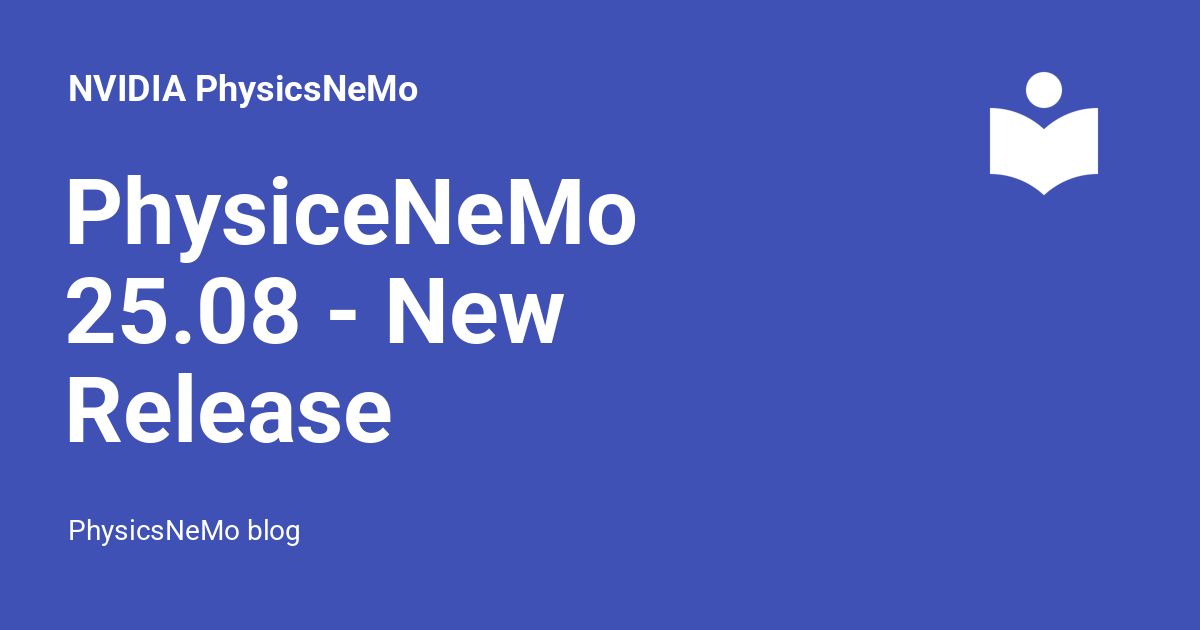
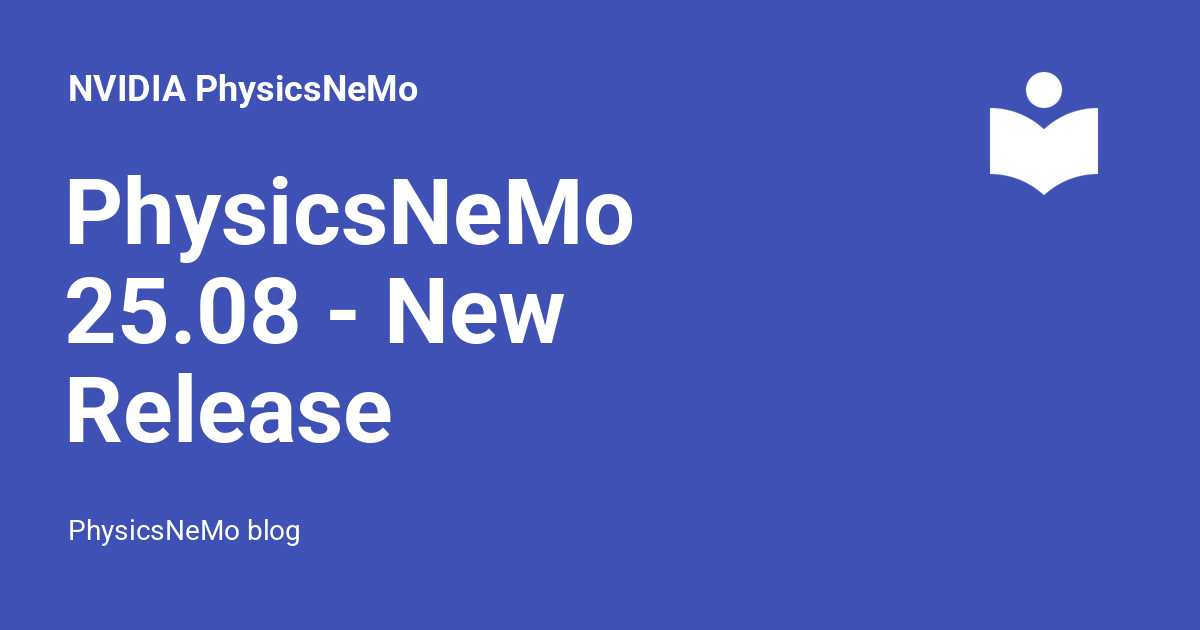
[CI] API Docs Build 1e65c19b

Changed region(s): [[0.2775, 0.3016, 0.5242, 0.3921]]

diff --git a/blog/2025/08/27/physicsnemo-release-25-08/index.html b/blog/2025/08/27/physicsnemo-release-25-08/index.html
@@ -20,7 +20,7 @@
     
     
       
-        <title>PhysiceNeMo 25.08 - New Release Announcement - NVIDIA PhysicsNeMo</title>
+        <title>PhysicsNeMo 25.08 - New Release Announcement - NVIDIA PhysicsNeMo</title>
       
     
     
@@ -61,7 +61,7 @@
       
         <meta  property="og:type"  content="website" >
       
-        <meta  property="og:title"  content="PhysiceNeMo 25.08 - New Release Announcement - NVIDIA PhysicsNeMo" >
+        <meta  property="og:title"  content="PhysicsNeMo 25.08 - New Release Announcement - NVIDIA PhysicsNeMo" >
       
         <meta  property="og:description"  content="PhysicsNeMo blog" >
       
@@ -77,7 +77,7 @@
       
         <meta  name="twitter:card"  content="summary_large_image" >
       
-        <meta  name="twitter:title"  content="PhysiceNeMo 25.08 - New Release Announcement - NVIDIA PhysicsNeMo" >
+        <meta  name="twitter:title"  content="PhysicsNeMo 25.08 - New Release Announcement - NVIDIA PhysicsNeMo" >
       
         <meta  name="twitter:description"  content="PhysicsNeMo blog" >
       
@@ -104,7 +104,7 @@
     <div data-md-component="skip">
       
         
-        <a href="#physicenemo-2508-new-release-announcement" class="md-skip">
+        <a href="#physicsnemo-2508-new-release-announcement" class="md-skip">
           Skip to content
         </a>
       
@@ -138,7 +138,7 @@
         <div class="md-header__topic" data-md-component="header-topic">
           <span class="md-ellipsis">
             
-              PhysiceNeMo 25.08 - New Release Announcement
+              PhysicsNeMo 25.08 - New Release Announcement
             
           </span>
         </div>
@@ -954,7 +954,7 @@
   
 
 
-<h1 id="physicenemo-2508-new-release-announcement">PhysiceNeMo 25.08 - New Release Announcement</h1>
+<h1 id="physicsnemo-2508-new-release-announcement">PhysicsNeMo 25.08 - New Release Announcement</h1>
 <p>We're excited to announce the latest PhysicsNeMo release! It's packed with powerful new workflows and recipes for CAE application developers. With a key emphasis on the developer experience, this update is designed to help you build, train, and deploy state-of-the-art Physics AI solutions with unprecedented speed and simplicity. We've streamlined every step of the process, from data prep to model evaluation, so you can focus on innovation, not infrastructure. Here are some key highlights of this release:</p>
 <!-- more -->
 
@@ -962,9 +962,9 @@
 <p>As PhysicsNeMo continues to grow exponentially with new functionality, we are constantly working to make onboarding and getting started easy for new developers. We have simplified the getting started step and created a <a href="https://docs.nvidia.com/physicsnemo/latest/index.html">unified documentation</a> experience for the PhysicsNeMo framework, adding even more documentation to aid new developers. For instance, the user guide now includes how-tos for every step of the process from data prep to model evaluation. This will ensure PhysicsNeMo fits seamlessly and incrementally into your PyTorch projects.</p>
 <p>We have also added a bunch of new recipes and workflows to give CAE developers an ideal starting point for custom solution development. By providing an easy, replicable proof of concept samples and guidance on how to adapt for custom use cases, these samples can save you months of development time and engineering effort that you’d otherwise spend building from scratch in PyTorch. In this release, we have introduced new training recipes for developing AI surrogates for:</p>
 <ul>
-<li><a href="https://github.com/NVIDIA/physicsnemo/blob/main/examples/structural_mechanics/deforming_plate/README.md">Large deformation problems</a>, </li>
-<li><a href="https://github.com/physicsnemo/examples/geophysics/diffusion_fwi/README.md">Full waveform inversion</a> and </li>
-<li><a href="https://github.com/NVIDIA/physicsnemo/tree/main/examples/cfd/external_aerodynamics/transolver">CFD applications using transformers</a>. </li>
+<li><a href="https://github.com/NVIDIA/physicsnemo/blob/main/examples/structural_mechanics/deforming_plate/README.md">Large deformation problems</a></li>
+<li>Full waveform inversion</li>
+<li><a href="https://github.com/NVIDIA/physicsnemo/tree/main/examples/cfd/external_aerodynamics/transolver">CFD applications using transformers</a></li>
 </ul>
 <p>We also added new training content for beginners for using <a href="https://github.com/openhackathons-org/End-to-End-AI-for-Science/tree/main/workspace/python/jupyter_notebook/CommunityModelsAndIntegrations">pretrained models from Hugging face in PhysicsNeMo</a> as well as for problems involving <a href="https://github.com/openhackathons-org/End-to-End-AI-for-Science/blob/main/workspace/python/jupyter_notebook/MagnetoHydrodynamics/magneto-hydrodynamics.ipynb">magneto hydrodynamics</a>.</p>
 <h2 id="confidence-scores-and-reliability">Confidence scores and reliability</h2>
@@ -1002,6 +1002,7 @@ In this release, we have introduced a new workflow to enable CAE developers to v
 <p>Beyond all these new workflows, we have also introduced a new downstream workflow showcasing use of surrogate models for design optimization. This workflow shows how to use AI models for Design Sensitivity Prediction. The reference sample provides a template for using AI surrogate to predict not just the performance of a design, but also its sensitivities—how that performance will change with small modifications to the geometry. This can dramatically accelerate a critical and traditionally slow part of the engineering design process.</p>
 <p>This new sample uses the external automotive aerodynamics use case model to demonstrate how the DoMINO model architecture can accurately predict the sensitivity of the drag coefficient to changes in the vehicle's shape.
 This is a game-changer for CAE application developers who can now allow their users, the engineers to rapidly identify which geometric features have the most significant impact on aerodynamic performance. This sample provides a workflow for CAE application developers to use their own custom models in building such functionality using PhysicsNeMo. You can get started with this <a href="https://github.com/NVIDIA/physicsnemo-cfd/blob/main/workflows/domino_design_sensitivities/main.ipynb">Jupyter notebook</a> and <a href="https://github.com/NVIDIA/physicsnemo-cfd/tree/main/workflows/domino_design_sensitivities">detailed documentation</a>.</p>
+<p><img alt="DoMINO Design Sensitivities" src="../../../../../images/domino_design_sensitivities.png" /></p>
 <h2 id="performance-optimizations-gnn-transformers">Performance Optimizations - GNN, Transformers</h2>
 <p>This release also delivers performance improvements for GNNs and Transformer architectures. By adding support for PyTorch Geometric (PyG) and optimizing core layers through the transformer engine, we have seen significant speedups. For instance, training  the MeshGraphNet model on meshes up to 200k nodes and 1.2M edges in a single graph shows approximately 1/3 reduction in runtime. With Pytorch Geometric, the latency for the training iteration is cut in half. For Transformer based architectures such as Transolver, we see strong out of the box performance. Additionally, the Transovler example for external aerodynamics enables fp8 training and inference using NVIDIA's optimized Transformer Engine backend. So just by importing PhysicsNeMo with your existing GNN or transformer models in PyTorch, you will see such optimized performance and scalability benefits. For more details, please refer to the <a href="https://docs.nvidia.com/physicsnemo/latest/user-guide/performance.html">detailed documentation</a>.</p>
 <p><img alt="Performance Optimizations to Graph and Transformer Layers" src="../../../../../images/torch.float16_training_time.png" title="Performance Optimizations to Graph and Transformer Layers" /></p>
@@ -1014,7 +1015,7 @@ This is a game-changer for CAE application developers who can now allow their us
 <li><a href="https://github.com/NVIDIA/physicsnemo/blob/main/examples/README.md">Reference Samples</a></li>
 <li><a href="https://docs.nvidia.com/physicsnemo/latest/index.html">User Guide Documentation</a></li>
 </ul>
-<p><a class="md-button" href="https://twitter.com/intent/tweet?text=PhysiceNeMo%2025.08%20-%20New%20Release%20Announcement%0A&amp;url=http://www.example.com/blog/2025/08/27/physicsnemo-release-25-08/">Share on <span class="twemoji"><svg xmlns="http://www.w3.org/2000/svg" viewBox="0 0 24 24"><path d="M18.901 1.153h3.68l-8.04 9.19L24 22.846h-7.406l-5.8-7.584-6.638 7.584H.474l8.6-9.83L0 1.154h7.594l5.243 6.932ZM17.61 20.644h2.039L6.486 3.24H4.298Z"/></svg></span></a>
+<p><a class="md-button" href="https://twitter.com/intent/tweet?text=PhysicsNeMo%2025.08%20-%20New%20Release%20Announcement%0A&amp;url=http://www.example.com/blog/2025/08/27/physicsnemo-release-25-08/">Share on <span class="twemoji"><svg xmlns="http://www.w3.org/2000/svg" viewBox="0 0 24 24"><path d="M18.901 1.153h3.68l-8.04 9.19L24 22.846h-7.406l-5.8-7.584-6.638 7.584H.474l8.6-9.83L0 1.154h7.594l5.243 6.932ZM17.61 20.644h2.039L6.486 3.24H4.298Z"/></svg></span></a>
 <a class="md-button" href="https://www.facebook.com/sharer/sharer.php?u=http://www.example.com/blog/2025/08/27/physicsnemo-release-25-08/">Share on <span class="twemoji"><svg xmlns="http://www.w3.org/2000/svg" viewBox="0 0 24 24"><path d="M9.101 23.691v-7.98H6.627v-3.667h2.474v-1.58c0-4.085 1.848-5.978 5.858-5.978.401 0 .955.042 1.468.103a9 9 0 0 1 1.141.195v3.325a9 9 0 0 0-.653-.036 27 27 0 0 0-.733-.009c-.707 0-1.259.096-1.675.309a1.7 1.7 0 0 0-.679.622c-.258.42-.374.995-.374 1.752v1.297h3.919l-.386 2.103-.287 1.564h-3.246v8.245C19.396 23.238 24 18.179 24 12.044c0-6.627-5.373-12-12-12s-12 5.373-12 12c0 5.628 3.874 10.35 9.101 11.647"/></svg></span></a>
 <a class="md-button" href="https://www.linkedin.com/sharing/share-offsite/?url=http://www.example.com/blog/2025/08/27/physicsnemo-release-25-08/">Share on LinkedIn</a></p>
 

diff --git a/blog/archive/2025/index.html b/blog/archive/2025/index.html
@@ -463,9 +463,9 @@
     <ul class="md-nav__list" data-md-component="toc" data-md-scrollfix>
       
         <li class="md-nav__item">
-  <a href="#physicenemo-2508-new-release-announcement" class="md-nav__link">
+  <a href="#physicsnemo-2508-new-release-announcement" class="md-nav__link">
     <span class="md-ellipsis">
-      PhysiceNeMo 25.08 - New Release Announcement
+      PhysicsNeMo 25.08 - New Release Announcement
     </span>
   </a>
   
@@ -597,9 +597,9 @@
     <ul class="md-nav__list" data-md-component="toc" data-md-scrollfix>
       
         <li class="md-nav__item">
-  <a href="#physicenemo-2508-new-release-announcement" class="md-nav__link">
+  <a href="#physicsnemo-2508-new-release-announcement" class="md-nav__link">
     <span class="md-ellipsis">
-      PhysiceNeMo 25.08 - New Release Announcement
+      PhysicsNeMo 25.08 - New Release Announcement
     </span>
   </a>
   
@@ -654,7 +654,7 @@
     </div>
   </header>
   <div class="md-post__content md-typeset">
-    <h2 id="physicenemo-2508-new-release-announcement"><a class="toclink" href="../../2025/08/27/physicsnemo-release-25-08/">PhysiceNeMo 25.08 - New Release Announcement</a></h2>
+    <h2 id="physicsnemo-2508-new-release-announcement"><a class="toclink" href="../../2025/08/27/physicsnemo-release-25-08/">PhysicsNeMo 25.08 - New Release Announcement</a></h2>
 <p>We're excited to announce the latest PhysicsNeMo release! It's packed with powerful new workflows and recipes for CAE application developers. With a key emphasis on the developer experience, this update is designed to help you build, train, and deploy state-of-the-art Physics AI solutions with unprecedented speed and simplicity. We've streamlined every step of the process, from data prep to model evaluation, so you can focus on innovation, not infrastructure. Here are some key highlights of this release:</p>
 
     

diff --git a/blog/category/physicsnemo/index.html b/blog/category/physicsnemo/index.html
@@ -540,9 +540,9 @@
     <ul class="md-nav__list" data-md-component="toc" data-md-scrollfix>
       
         <li class="md-nav__item">
-  <a href="#physicenemo-2508-new-release-announcement" class="md-nav__link">
+  <a href="#physicsnemo-2508-new-release-announcement" class="md-nav__link">
     <span class="md-ellipsis">
-      PhysiceNeMo 25.08 - New Release Announcement
+      PhysicsNeMo 25.08 - New Release Announcement
     </span>
   </a>
   
@@ -599,9 +599,9 @@
     <ul class="md-nav__list" data-md-component="toc" data-md-scrollfix>
       
         <li class="md-nav__item">
-  <a href="#physicenemo-2508-new-release-announcement" class="md-nav__link">
+  <a href="#physicsnemo-2508-new-release-announcement" class="md-nav__link">
     <span class="md-ellipsis">
-      PhysiceNeMo 25.08 - New Release Announcement
+      PhysicsNeMo 25.08 - New Release Announcement
     </span>
   </a>
   
@@ -656,7 +656,7 @@
     </div>
   </header>
   <div class="md-post__content md-typeset">
-    <h2 id="physicenemo-2508-new-release-announcement"><a class="toclink" href="../../2025/08/27/physicsnemo-release-25-08/">PhysiceNeMo 25.08 - New Release Announcement</a></h2>
+    <h2 id="physicsnemo-2508-new-release-announcement"><a class="toclink" href="../../2025/08/27/physicsnemo-release-25-08/">PhysicsNeMo 25.08 - New Release Announcement</a></h2>
 <p>We're excited to announce the latest PhysicsNeMo release! It's packed with powerful new workflows and recipes for CAE application developers. With a key emphasis on the developer experience, this update is designed to help you build, train, and deploy state-of-the-art Physics AI solutions with unprecedented speed and simplicity. We've streamlined every step of the process, from data prep to model evaluation, so you can focus on innovation, not infrastructure. Here are some key highlights of this release:</p>
 
     

diff --git a/blog/index.html b/blog/index.html
@@ -544,9 +544,9 @@
     <ul class="md-nav__list" data-md-component="toc" data-md-scrollfix>
       
         <li class="md-nav__item">
-  <a href="#physicenemo-2508-new-release-announcement" class="md-nav__link">
+  <a href="#physicsnemo-2508-new-release-announcement" class="md-nav__link">
     <span class="md-ellipsis">
-      PhysiceNeMo 25.08 - New Release Announcement
+      PhysicsNeMo 25.08 - New Release Announcement
     </span>
   </a>
   
@@ -602,7 +602,7 @@
     </div>
   </header>
   <div class="md-post__content md-typeset">
-    <h2 id="physicenemo-2508-new-release-announcement"><a class="toclink" href="2025/08/27/physicsnemo-release-25-08/">PhysiceNeMo 25.08 - New Release Announcement</a></h2>
+    <h2 id="physicsnemo-2508-new-release-announcement"><a class="toclink" href="2025/08/27/physicsnemo-release-25-08/">PhysicsNeMo 25.08 - New Release Announcement</a></h2>
 <p>We're excited to announce the latest PhysicsNeMo release! It's packed with powerful new workflows and recipes for CAE application developers. With a key emphasis on the developer experience, this update is designed to help you build, train, and deploy state-of-the-art Physics AI solutions with unprecedented speed and simplicity. We've streamlined every step of the process, from data prep to model evaluation, so you can focus on innovation, not infrastructure. Here are some key highlights of this release:</p>
 
     

diff --git a/blog/tags/index.html b/blog/tags/index.html
@@ -576,7 +576,7 @@
     
       <li>
         <a href="../2025/08/27/physicsnemo-release-25-08/">
-          PhysiceNeMo 25.08 - New Release Announcement
+          PhysicsNeMo 25.08 - New Release Announcement
         </a>
       </li>
     
